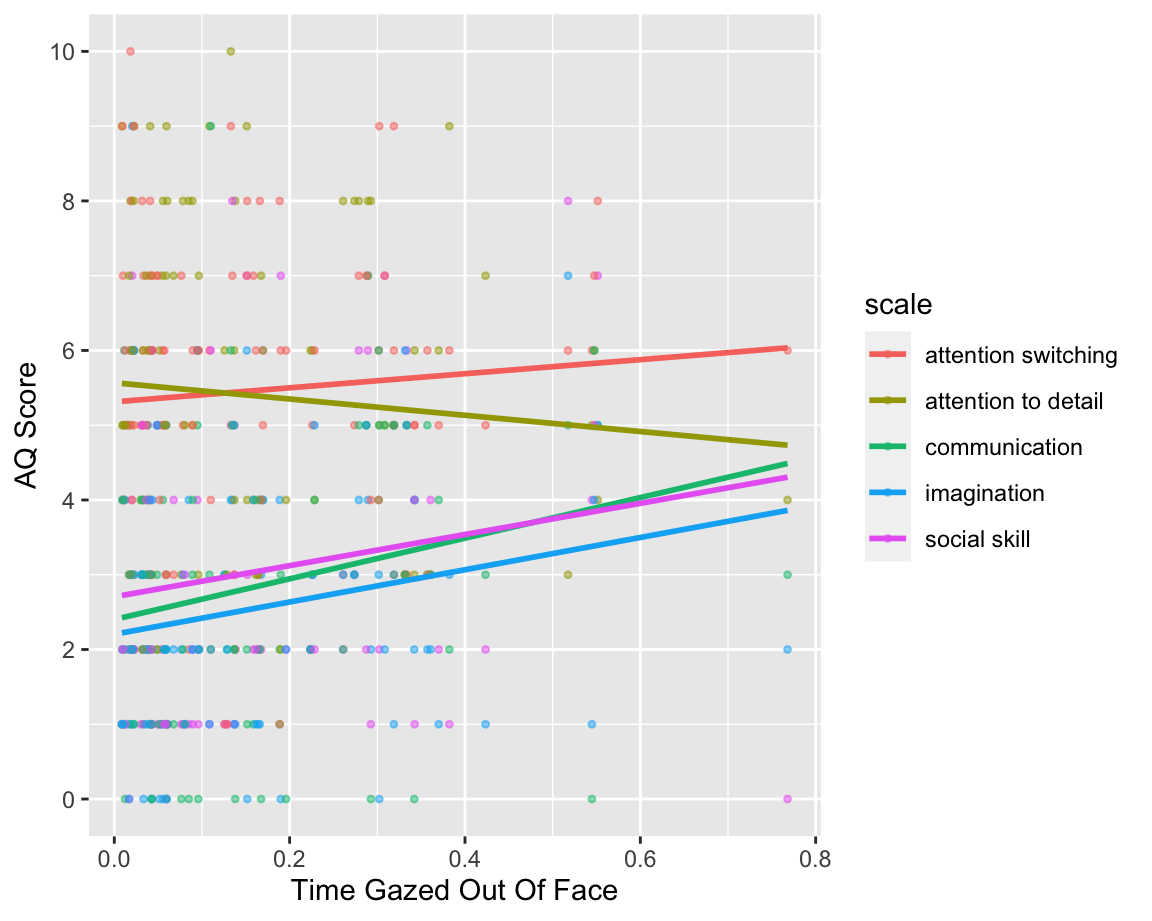
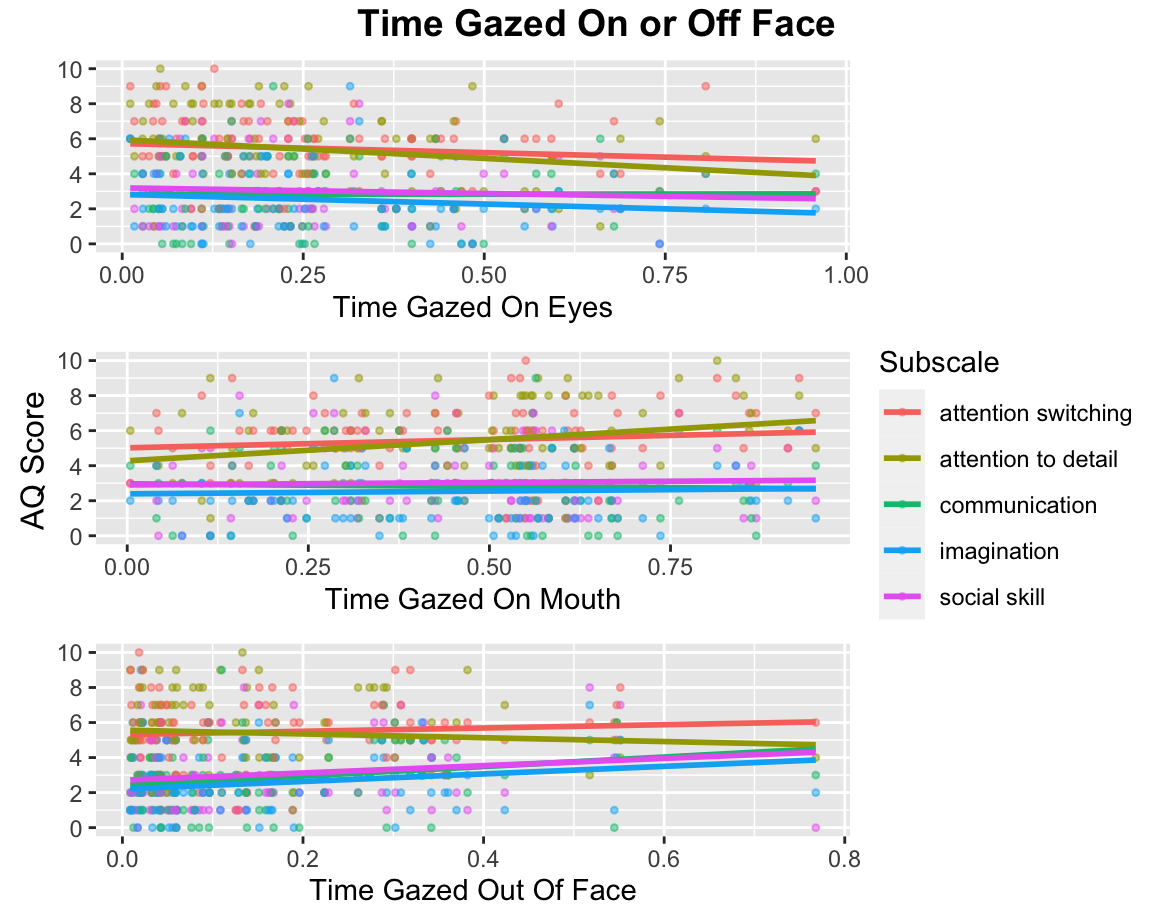
revision
Added more plots for AQ scores (Eyes, Mouth, and Off face).

diff --git a/docs/index.html b/docs/index.html
@@ -166,10 +166,8 @@ window.FlexDashboardComponents = [];
 </div><!--/.navbar-->
 
 <img class="mobile-figure" data-mobile-figure-id=fig1 src="index_files/figure-html/unnamed-chunk-1-1.mb.png" />
-<img class="mobile-figure" data-mobile-figure-id=fig2 src="index_files/figure-html/unnamed-chunk-2-1.mb.png" />
-<img class="mobile-figure" data-mobile-figure-id=fig3 src="index_files/figure-html/unnamed-chunk-3-1.mb.png" />
-<img class="mobile-figure" data-mobile-figure-id=fig4 src="index_files/figure-html/unnamed-chunk-4-1.mb.png" />
-<img class="mobile-figure" data-mobile-figure-id=fig5 src="index_files/figure-html/unnamed-chunk-6-1.mb.png" />
+<img class="mobile-figure" data-mobile-figure-id=fig2 src="index_files/figure-html/unnamed-chunk-5-1.mb.png" />
+<img class="mobile-figure" data-mobile-figure-id=fig3 src="index_files/figure-html/unnamed-chunk-6-1.mb.png" />
 <script type="text/javascript">
 
 
@@ -1945,21 +1943,21 @@ etc.). <br></p>
 <div class="knitr-options" data-fig-width="1152" data-fig-height="960">
 
 </div>
-<p><img src="index_files/figure-html/unnamed-chunk-2-1.png" width="1152" data-figure-id=fig2 /></p>
+<p><img src="index_files/figure-html/unnamed-chunk-2-1.gif" width="1152" data-figure-id=fig2 /></p>
 </div>
 <div id="set-b" class="section level3">
 <h3>Set B</h3>
 <div class="knitr-options" data-fig-width="1152" data-fig-height="960">
 
 </div>
-<p><img src="index_files/figure-html/unnamed-chunk-3-1.png" width="1152" data-figure-id=fig3 /></p>
+<p><img src="index_files/figure-html/unnamed-chunk-3-1.gif" width="1152" data-figure-id=fig2 /></p>
 </div>
 <div id="set-c" class="section level3">
 <h3>Set C</h3>
 <div class="knitr-options" data-fig-width="1152" data-fig-height="960">
 
 </div>
-<p><img src="index_files/figure-html/unnamed-chunk-4-1.png" width="1152" data-figure-id=fig4 /></p>
+<p><img src="index_files/figure-html/unnamed-chunk-4-1.gif" width="1152" data-figure-id=fig2 /></p>
 </div>
 </div>
 <div id="row-3" class="section level2">
@@ -2002,7 +2000,7 @@ or not?]</p>
 <div class="knitr-options" data-fig-width="576" data-fig-height="460">
 
 </div>
-<p><img src="index_files/figure-html/unnamed-chunk-6-1.png" width="576" data-figure-id=fig5 /></p>
+<p><img src="index_files/figure-html/unnamed-chunk-6-1.png" width="576" data-figure-id=fig3 /></p>
 </div>
 </div>
 <div id="row-5" class="section level2">
@@ -2070,6 +2068,10 @@ require(DT)
 require(dplyr)
 require(readr)
 require(png)
+require(gganimate)
+require(jpeg)
+require(ggpubr)
+require(grid)
 
 aq &lt;- read_csv("data/AQ_SubScales.csv")
 exp &lt;- read_csv("data/datadryad_clear98_aq.csv")
@@ -2160,14 +2162,17 @@ Row {.tabset}
 ``` {r, echo=FALSE, fig.height=10, fig.width=12}
 img.A &lt;- png::readPNG("data/web.A.png")
 
-df.A &lt;- df[df$set == 'A', ]
+df.A &lt;- df[df$set == 'A', ] 
+df.A &lt;- filter(df.A, timestamp&gt;0)
 
 p.A &lt;- ggplot(df.A, aes(x = x, y = y, fill = duration)) +
   ggpubr::background_image(img.A) +
-  geom_point(pch = 21) +
-  facet_wrap( ~ participant)
+  geom_point(pch = 21, alpha = 0.8) +
+  facet_wrap( ~ participant) +
+  scale_fill_gradientn(colours = rainbow(5)) +
+  transition_reveal(y)
 
-p.A
+animate(p.A)
 ```
 
 ### Set B
@@ -2175,14 +2180,17 @@ p.A
 ``` {r, echo=FALSE, fig.height=10, fig.width=12}
 img.B &lt;- png::readPNG("data/web.B.png")
 
-df.B &lt;- df[df$set == 'B', ]
+df.B &lt;- df[df$set == 'B', ] 
+df.B &lt;- filter(df.B, timestamp&gt;0)
 
 p.B &lt;- ggplot(df.B, aes(x = x, y = y, fill = duration)) +
-  ggpubr::background_image(img.B) +
-  geom_point(pch = 21) +
-  facet_wrap( ~ participant)
+  ggpubr::background_image(img.A) +
+  geom_point(pch = 21, alpha = 0.8) +
+  facet_wrap( ~ participant) +
+  scale_fill_gradientn(colours = rainbow(5)) +
+  transition_reveal(y)
 
-p.B
+animate(p.B)
 ```
 
 ### Set C
@@ -2190,14 +2198,17 @@ p.B
 ``` {r, echo=FALSE, fig.height=10, fig.width=12}
 img.C &lt;- png::readPNG("data/web.C.png")
 
-df.C &lt;- df[df$set == 'C', ]
+df.C &lt;- df[df$set == 'C', ] 
+df.C &lt;- filter(df.C, timestamp&gt;0)
 
 p.C &lt;- ggplot(df.C, aes(x = x, y = y, fill = duration)) +
-  ggpubr::background_image(img.C) +
-  geom_point(pch = 21) +
-  facet_wrap( ~ participant)
+  ggpubr::background_image(img.A) +
+  geom_point(pch = 21, alpha = 0.8) +
+  facet_wrap( ~ participant) +
+  scale_fill_gradientn(colours = rainbow(5)) +
+  transition_reveal(y)
 
-p.C
+animate(p.C)
 ```
 
 
@@ -2220,6 +2231,17 @@ Row
 
 ```{r, eval=TRUE, include=FALSE}
 
+aq &lt;- read_csv("data/AQ_SubScales.csv")
+exp &lt;- read_csv("data/datadryad_clear98_aq.csv")
+
+image &lt;- readJPEG("data/image.jpg")
+
+exp.1 &lt;- exp[exp$Sub == '1', ] 
+
+ggplot(exp.1, aes(x = x, y = y, fill = PC_Eyes)) +
+  ggpubr::background_image(image) +
+  geom_point(pch = 21, alpha = 0.8) +
+  scale_fill_gradientn(colours = rainbow(5)) 
 
 
 ```
@@ -2240,34 +2262,82 @@ Column
 ### Table
 
 ```{r, echo=FALSE}
-
-aq &lt;- read_csv("data/AQ_SubScales.csv")
-exp &lt;- read_csv("data/datadryad_clear98_aq.csv")
-
-exp.m &lt;- exp[c(13, 18)]
-exp.m &lt;- aggregate(exp.m$PC_Off, list(exp.m$Code), FUN=mean)
-exp.m &lt;- exp.m %&gt;% 
+# OFF
+exp.f &lt;- exp[c(13, 18)]
+exp.f &lt;- aggregate(exp.f$PC_Off, list(exp.f$Code), FUN=mean)
+exp.f &lt;- exp.f %&gt;% 
   rename('Code' = 'Group.1',
          'Off' = 'x')
-exp.m &lt;- unique(exp.m)
+exp.f &lt;- unique(exp.f)
 
 aq &lt;- rename(aq, Code = code)
-exp &lt;- left_join(exp, aq, by="Code")
-exp.aq &lt;- exp[c(18, 21:26)]
-exp.aq &lt;- unique(exp.aq)
-
-exp.c &lt;-left_join(exp.m, exp.aq, by=c("Code"))
-exp.c &lt;- exp.c %&gt;% 
+exp.f &lt;- left_join(exp.f, aq, by="Code")
+exp.f &lt;- exp.f %&gt;% 
   pivot_longer(c(4:8),
-               names_to = "scale",
+               names_to = "Subscale",
                values_to = "score")
 
-ggplot(exp.c, aes(Off, score, colour = scale)) +
+plot.f &lt;- ggplot(exp.f, aes(Off, score, colour = Subscale)) +
   geom_point(alpha = .5, shape = 20) +
   xlab('Time Gazed Out Of Face') +
   ylab('AQ Score') +
   geom_smooth(method=lm, se = FALSE)+
-  scale_y_continuous(breaks=c(0,2,4,6,8,10))
+  scale_y_continuous(breaks=c(0,2,4,6,8,10)) +
+  theme(axis.title.y = element_blank())
+
+# EYES
+exp.e &lt;- exp[c(11, 18)]
+exp.e &lt;- aggregate(exp.e$PC_Eyes, list(exp.e$Code), FUN=mean)
+exp.e &lt;- exp.e %&gt;% 
+  rename('Code' = 'Group.1',
+         'Eyes' = 'x')
+exp.e &lt;- unique(exp.e)
+
+exp.e &lt;- left_join(exp.e, aq, by="Code")
+exp.e &lt;- exp.e %&gt;% 
+  pivot_longer(c(4:8),
+               names_to = "Subscale",
+               values_to = "score")
+
+plot.e &lt;- ggplot(exp.e, aes(Eyes, score, colour = Subscale)) +
+  geom_point(alpha = .5, shape = 20) +
+  xlab('Time Gazed On Eyes') +
+  ylab('AQ Score') +
+  geom_smooth(method=lm, se = FALSE) +
+  scale_y_continuous(breaks=c(0,2,4,6,8,10)) +
+  theme(axis.title.y = element_blank())
+
+# MOUTH
+exp.m &lt;- exp[c(12, 18)]
+exp.m &lt;- aggregate(exp.m$PC_Mouth, list(exp.m$Code), FUN=mean)
+exp.m &lt;- exp.m %&gt;% 
+  rename('Code' = 'Group.1',
+         'Mouth' = 'x')
+exp.m &lt;- unique(exp.m)
+
+exp.m &lt;-left_join(exp.m, aq, by=c("Code"))
+exp.m &lt;- exp.m %&gt;% 
+  pivot_longer(c(4:8),
+               names_to = "Subscale",
+               values_to = "score")
+
+plot.m &lt;- ggplot(exp.m, aes(Mouth, score, colour = Subscale)) +
+  geom_point(alpha = .5, shape = 20) +
+  xlab('Time Gazed On Mouth') +
+  ylab('AQ Score') +
+  geom_smooth(method=lm, se = FALSE)+
+  scale_y_continuous(breaks=c(0,2,4,6,8,10))  +
+  theme(axis.title.y = element_blank())
+
+
+plots &lt;- ggarrange(plot.e, plot.m, plot.f,
+          ncol=1, common.legend = TRUE, legend="right")  +
+    scale_y_continuous(breaks=c(0,2,4,6,8,10)) 
+  
+
+annotate_figure(plots, top = text_grob("Time Gazed On or Off Face",
+               color = "black", face = "bold", size = 14),
+               left = text_grob("AQ Score", rot = 90, vjust = 1))
 
 ```
 
